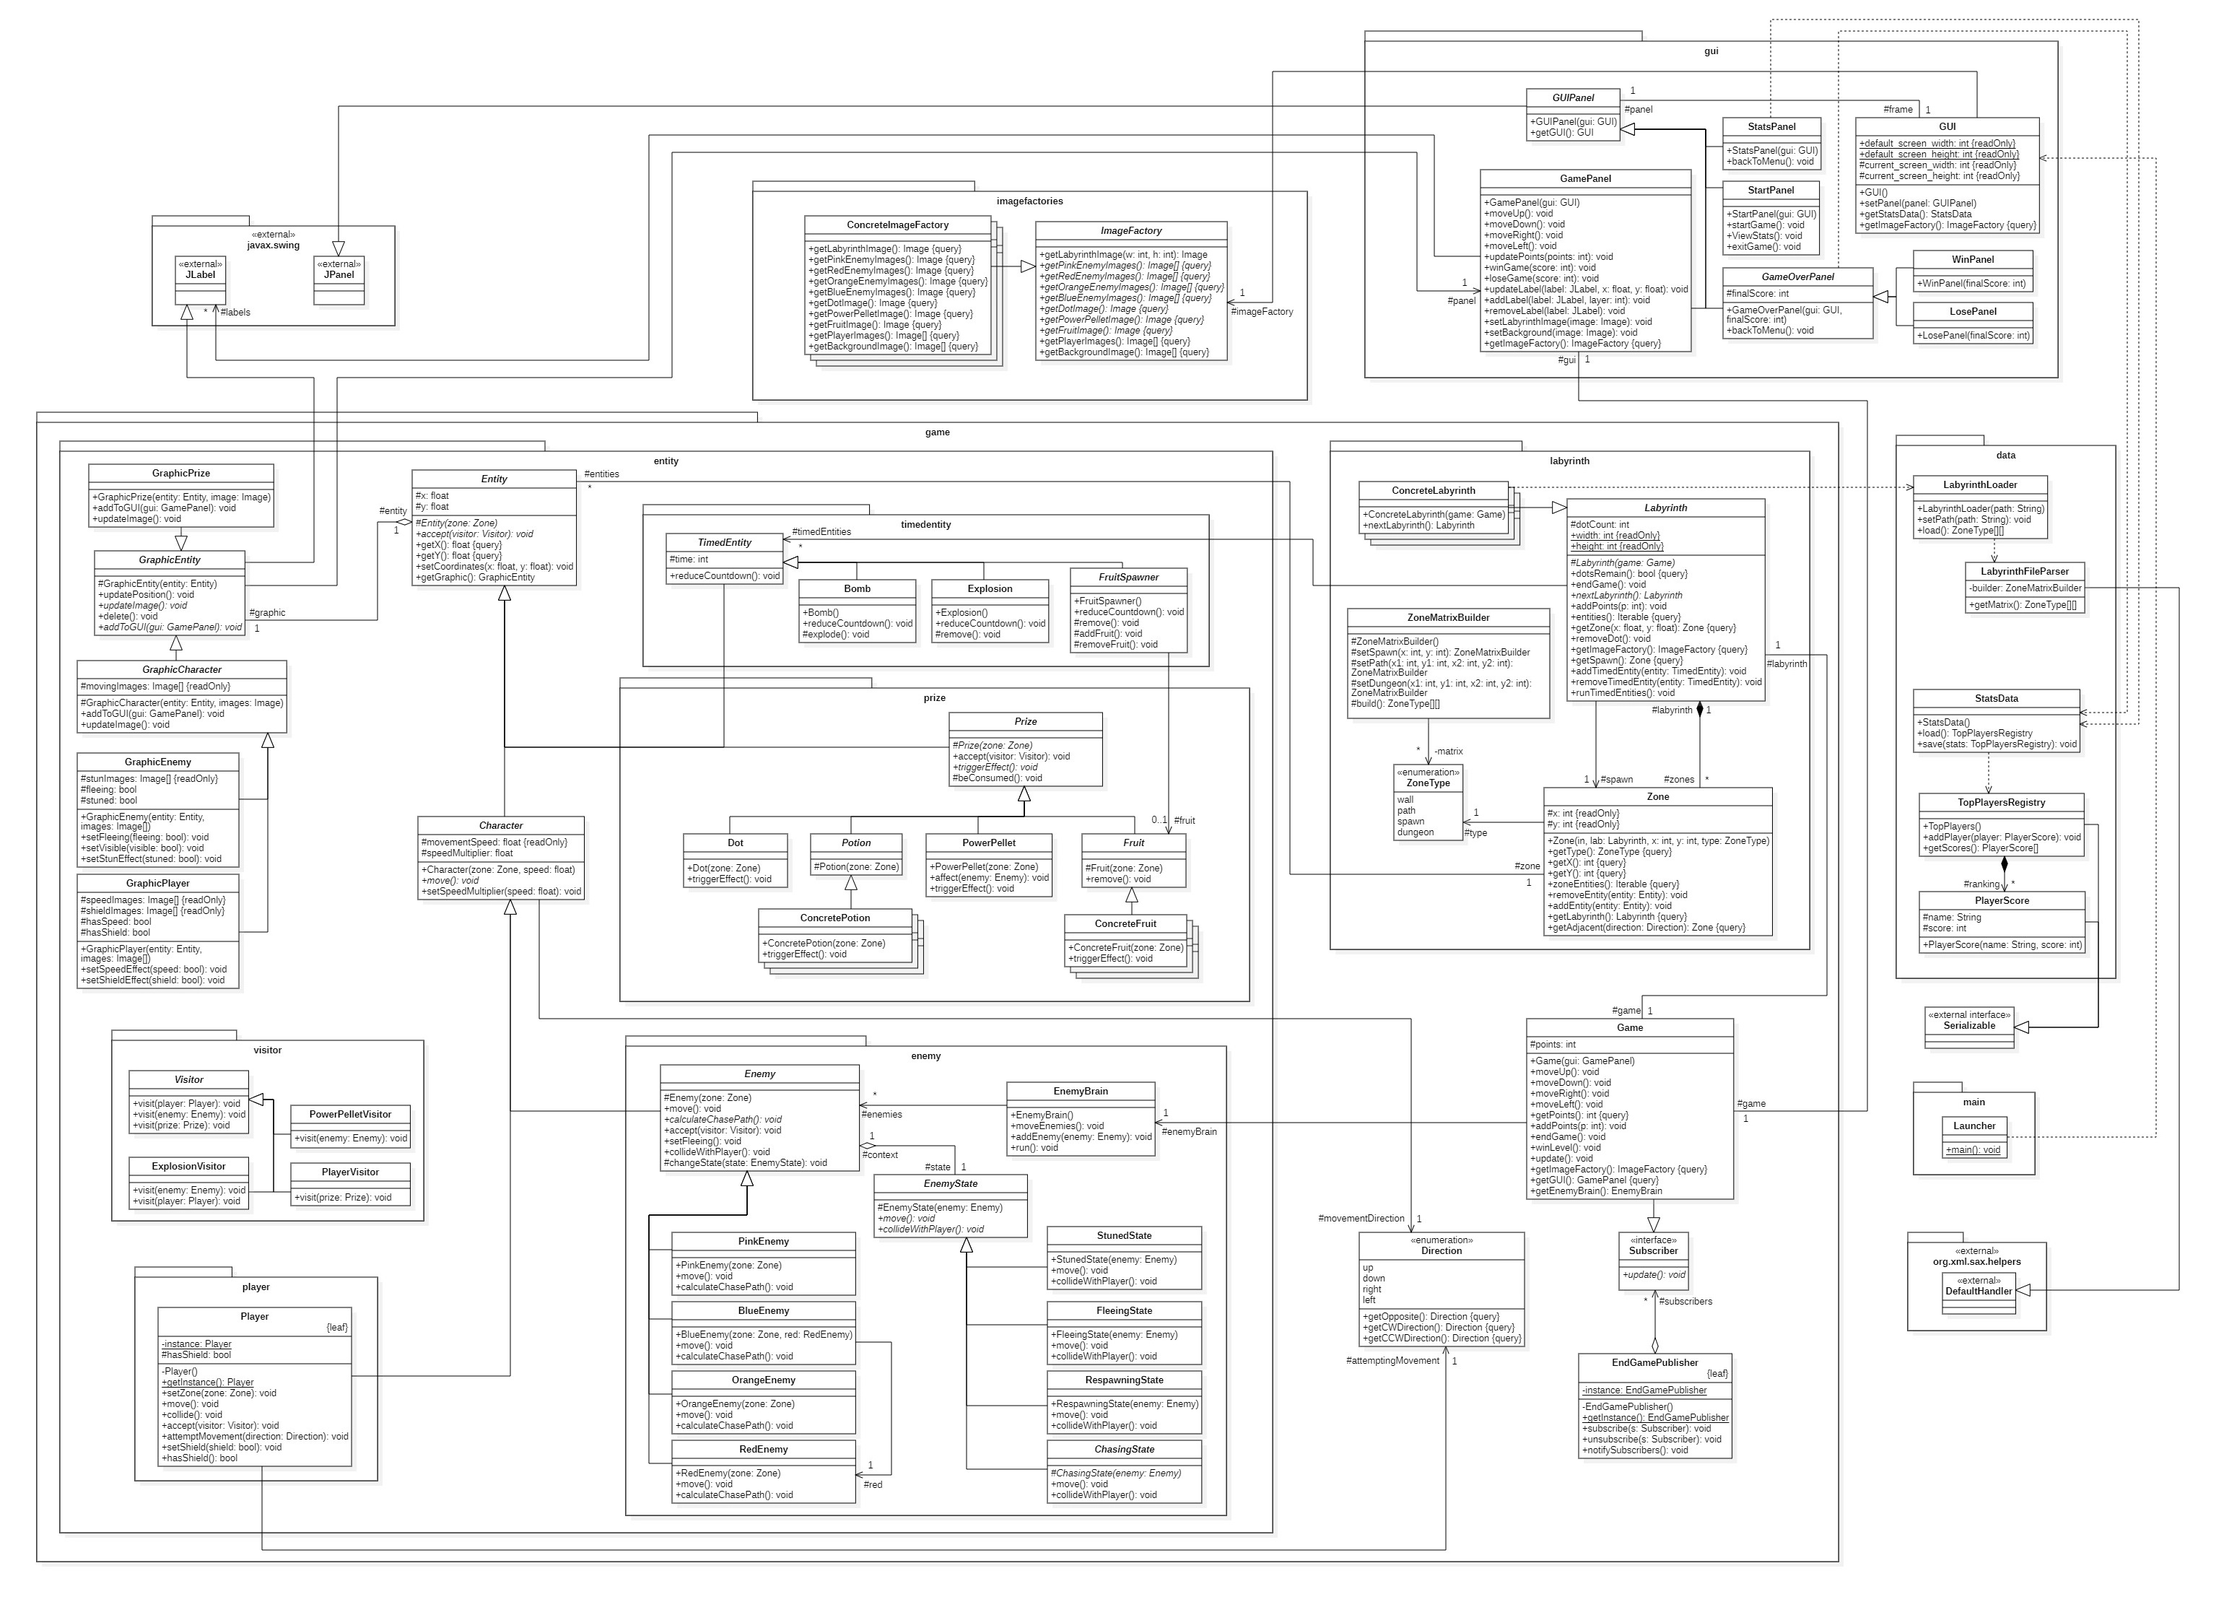
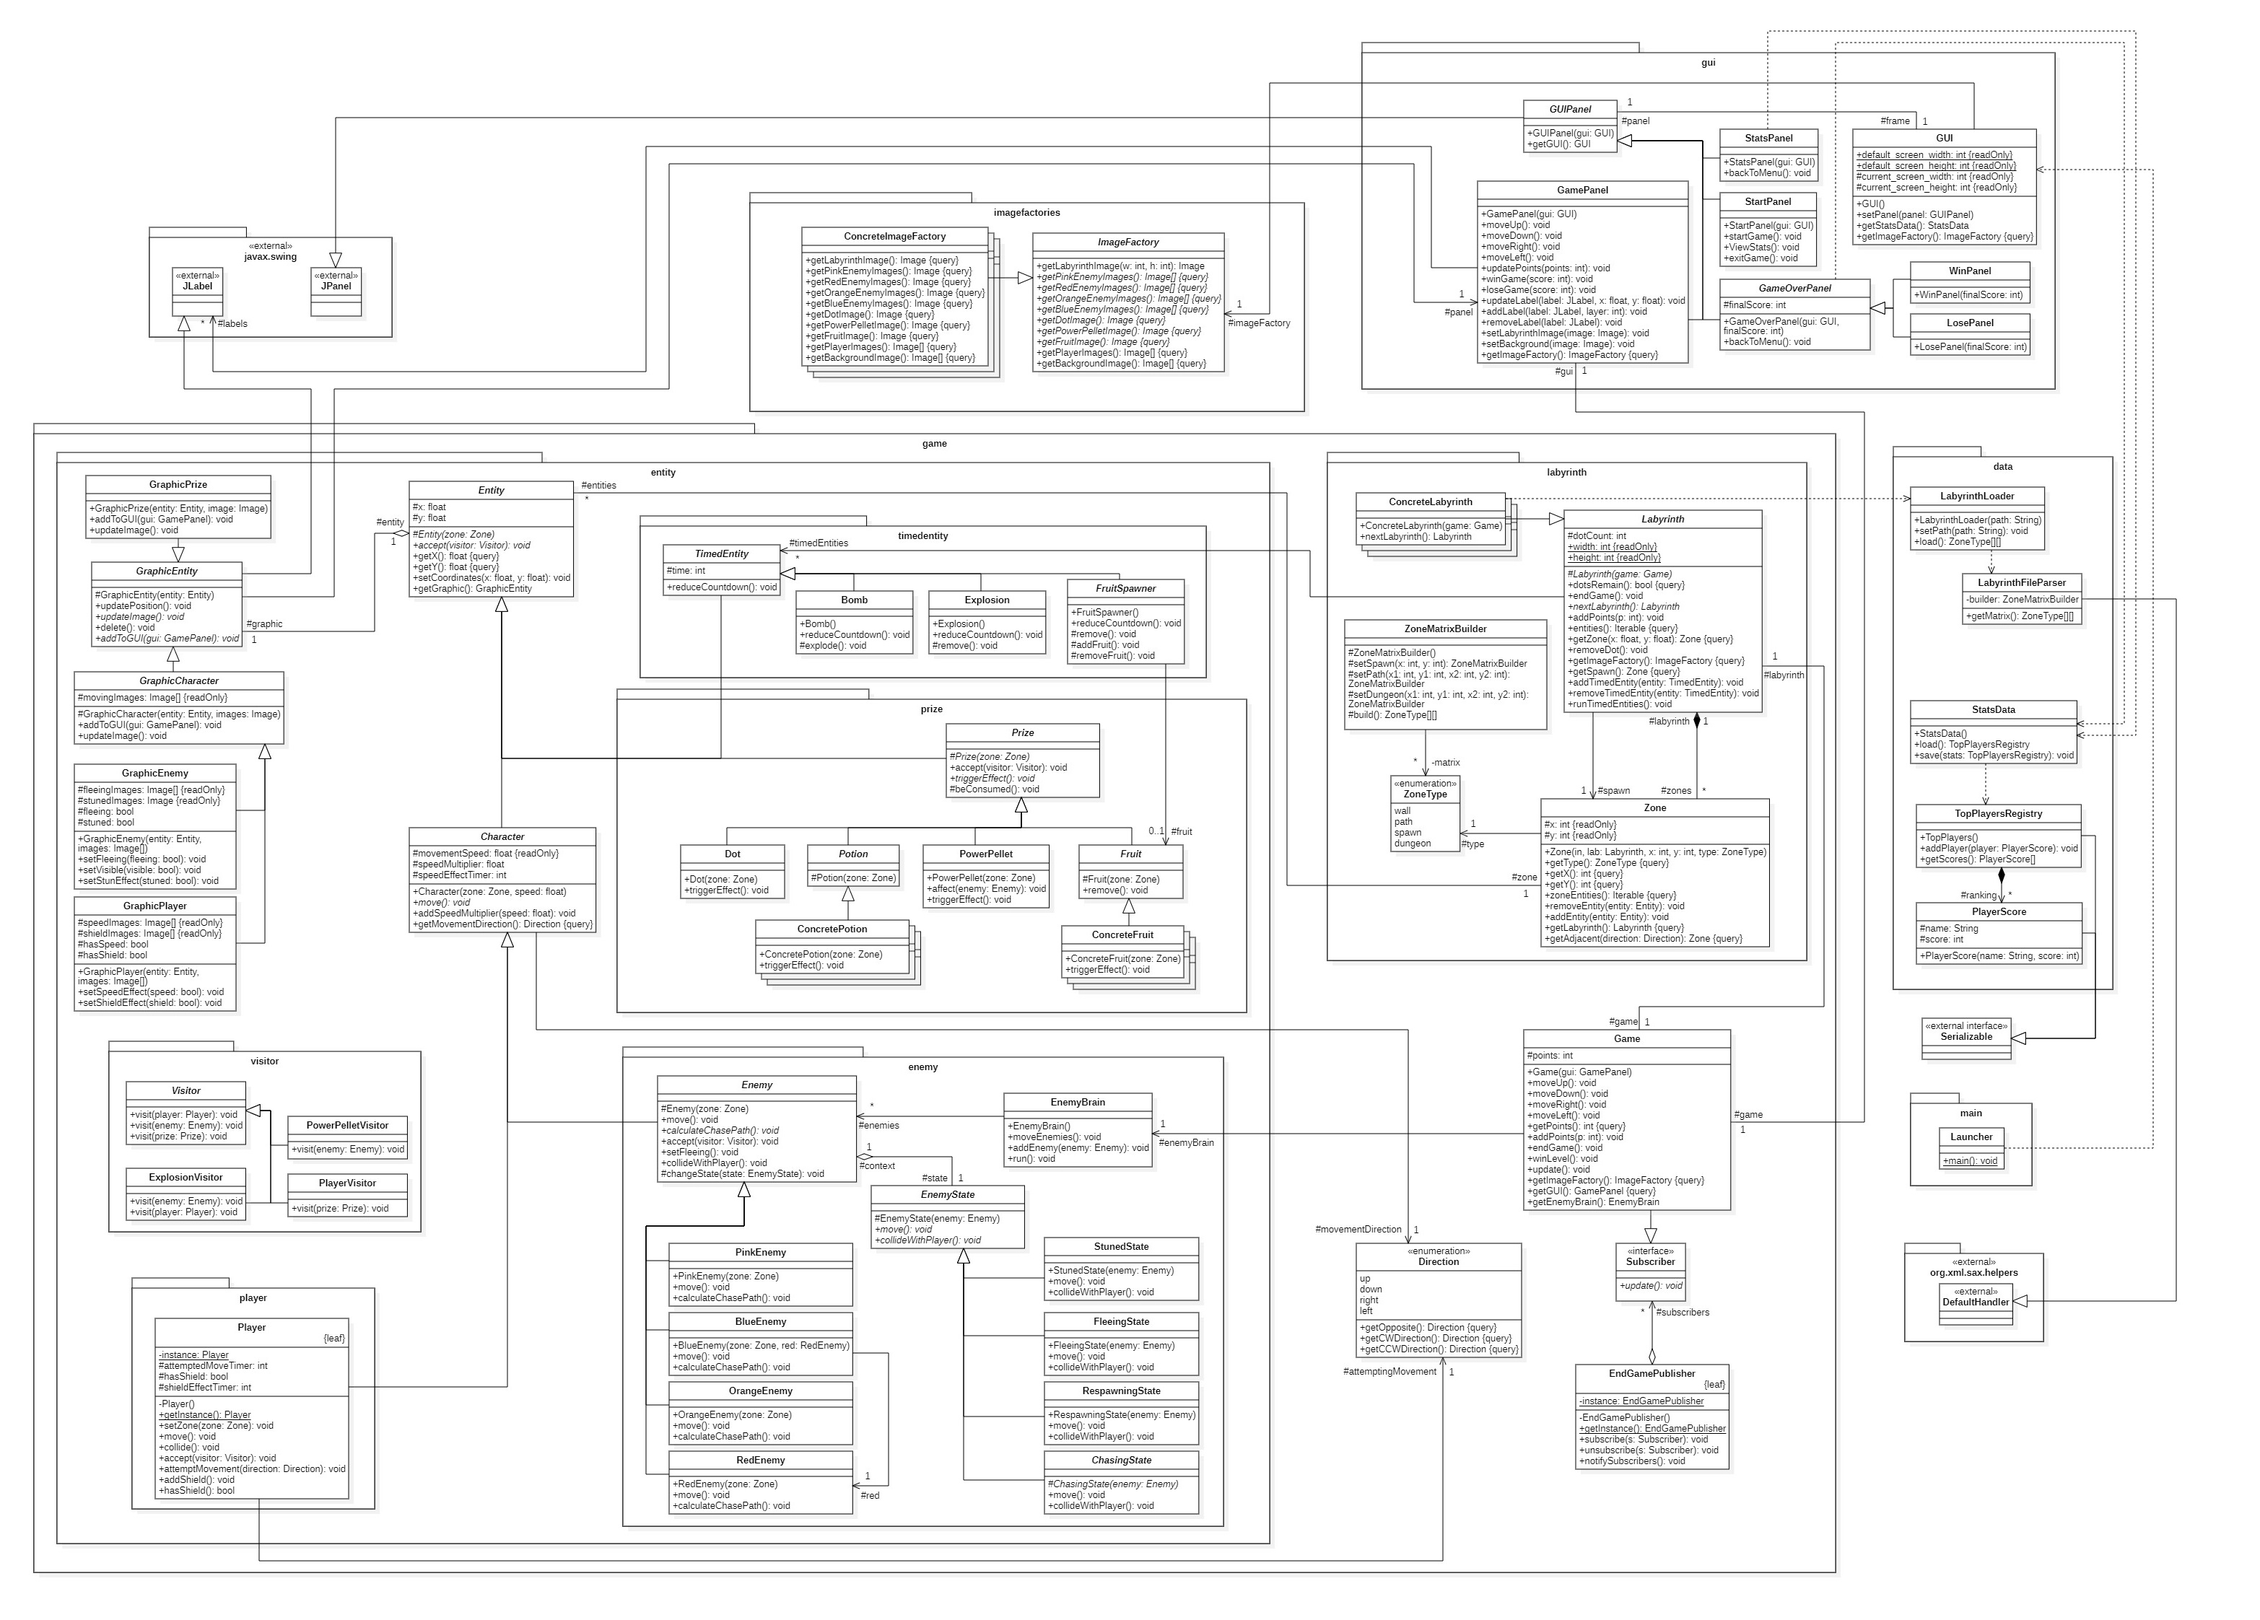
Actualizado diagrama de clases
Cambios en potions

diff --git a/src/game/labyrinth/ConcreteLabyrinth1.java b/src/game/labyrinth/ConcreteLabyrinth1.java
@@ -4,6 +4,10 @@ import data.LabyrinthLoader;
 import exceptions.DataLoadException;
 import game.Game;
 import game.entity.Entity;
+import game.entity.enemy.BlueEnemy;
+import game.entity.enemy.OrangeEnemy;
+import game.entity.enemy.PinkEnemy;
+import game.entity.enemy.RedEnemy;
 import game.entity.player.Player;
 import game.entity.prize.ConcreteFruit1;
 import game.entity.prize.ConcretePotion1;

diff --git a/src/game/entity/prize/ConcretePotion2.java b/src/game/entity/prize/ConcretePotion2.java
@@ -1,6 +1,7 @@
 package game.entity.prize;
 
 import game.entity.GraphicPrize;
+import game.entity.player.Player;
 import game.labyrinth.Zone;
 
 public class ConcretePotion2 extends Potion {
@@ -12,6 +13,8 @@ public class ConcretePotion2 extends Potion {
 	
 	public void triggerEffect() {
 		//TODO imp
+		Player.getInstance().setSpeed(2);
+		beConsumed();
 	}
 	
 }

diff --git a/src/game/entity/prize/ConcretePotion1.java b/src/game/entity/prize/ConcretePotion1.java
@@ -12,6 +12,7 @@ public class ConcretePotion1 extends Potion {
 	
 	public void triggerEffect() {
 		//TODO imp
+		beConsumed();
 	}
 	
 }
